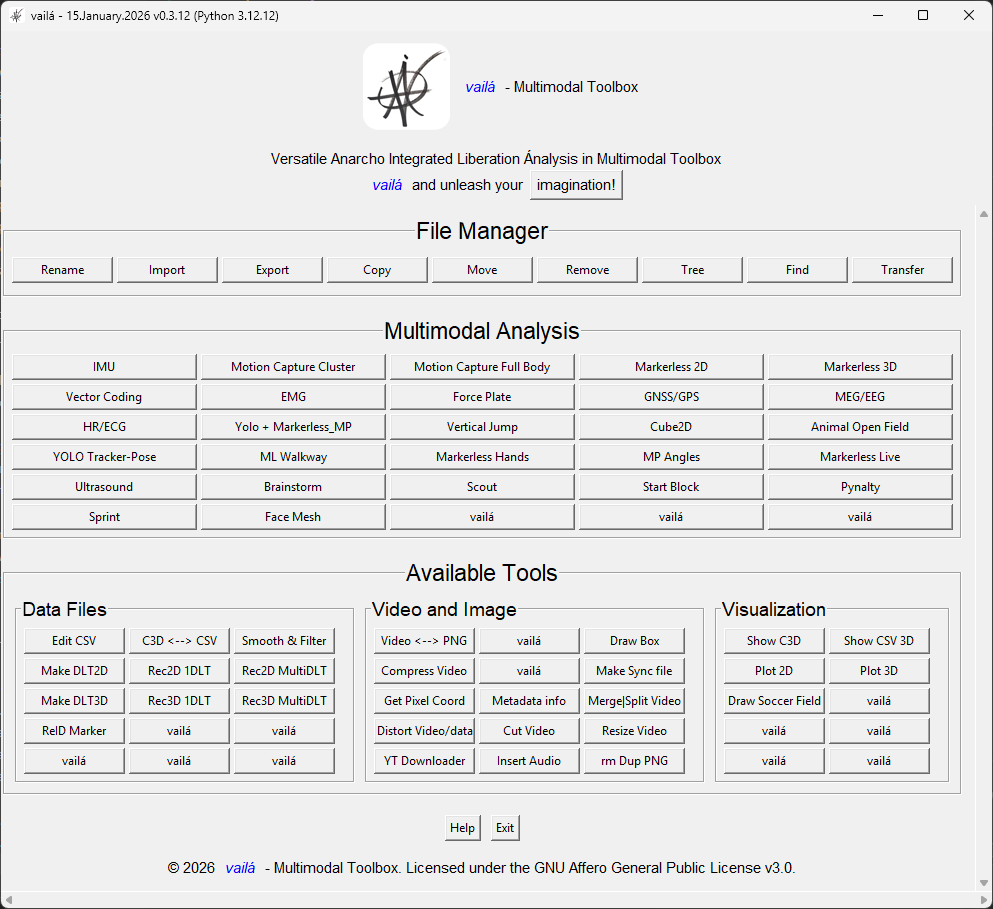
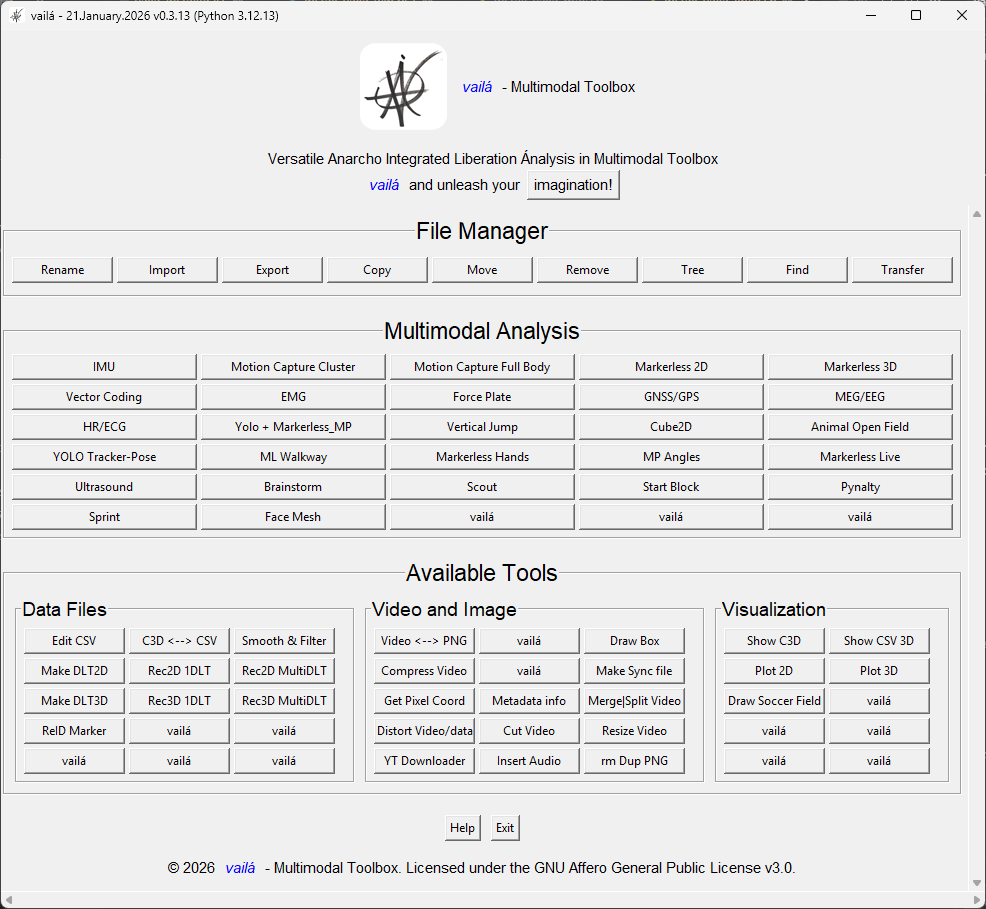
Unify install (#469)
* Fix macOS installation and code quality improvements

- Fix install_vaila_mac.sh: Add wrappers to avoid TensorRT resolution errors on macOS
  - Create .venv/bin/vaila wrapper for direct Python execution
  - Create .venv/bin/uv-run-vaila wrapper with --no-extra gpu flag
  - Update run_vaila.sh to use venv Python directly instead of uv run
  - Add installation instructions for macOS users

- Fix vaila.py: Replace try-except-pass with contextlib.suppress
  - Update WM_CLASS setting on Linux (lines 264-270)
  - Update grab_release/grab_set exception handling (lines 1858-1862)
  - Improve code quality and follow Python best practices

- Update version to 0.3.13 (Update Date: 20 January 2026)

- Ensure cross-platform compatibility: macOS uses MPS, Linux/Windows support TensorRT when available

* Fix installation scripts: uv sync error handling and environment verification

- Fix uv sync command in install_vaila_win.ps1 and install_vaila_linux.sh to handle empty EXTRAS variable
- Add error checking after uv sync to ensure dependencies are installed before continuing
- Add environment verification (PIL module check) before creating shortcuts/desktop entries
- Update version to 0.3.13 in vaila_installer.iss and pyproject.toml
- Ensure .venv is properly activated via uv run for both GPU and CPU installations
- Fixes issue where desktop shortcuts failed due to missing dependencies after installation

diff --git a/vaila.py b/vaila.py
@@ -6,8 +6,8 @@ Author: Paulo Roberto Pereira Santiago
 Email: paulosantiago@usp.br
 GitHub: https://github.com/vaila-multimodaltoolbox/vaila
 Creation Date: 07 October 2024
-Update Date: 15 January 2026
-Version: 0.3.12
+Update Date: 21 January 2026
+Version: 0.3.13
 
 Example of usage:
 uv run vaila.py (recommended)
@@ -56,6 +56,7 @@ Visit the project repository: https://github.com/vaila-multimodaltoolbox
 """
 
 # Standard library imports
+import contextlib
 import os
 import platform
 import signal
@@ -152,7 +153,7 @@ if platform.system() == "Darwin":  # macOS
         pass
 
 text = r"""
-vailá - 15.January.2026 v0.3.12 (Python 3.12.12)
+vailá - 21.January.2026 v0.3.13 (Python 3.12.13)
                                              o
                                 _,  o |\  _,/
                           |  |_/ |  | |/ / |
@@ -258,17 +259,15 @@ class Vaila(tk.Tk):
 
         """
         super().__init__()
-        self.title("vailá - 15.January.2026 v0.3.12 (Python 3.12.12)")
+        self.title("vailá - 21.January.2026 v0.3.13 (Python 3.12.13)")
 
         # Set WM_CLASS for Linux (needed for proper icon in taskbar/dock)
         if platform.system() == "Linux":
-            try:
-                # Set both class name and instance name to 'vaila' for proper desktop integration
-                # Use tk.call instead of wm_class method which may not exist in all Tkinter versions
+            # Set both class name and instance name to 'vaila' for proper desktop integration
+            # Use tk.call instead of wm_class method which may not exist in all Tkinter versions
+            # Silently ignore if WM_CLASS setting fails (not critical for functionality)
+            with contextlib.suppress(AttributeError, Exception):
                 self.tk.call('wm', 'class', self._w, 'vaila', 'vaila')
-            except (AttributeError, Exception) as e:
-                # Silently ignore if WM_CLASS setting fails (not critical for functionality)
-                pass
 
         # Adjust dimensions and layout based on the operating system
         self.set_dimensions_based_on_os()
@@ -1850,20 +1849,17 @@ class Vaila(tk.Tk):
         dialog.title("Select YOLO Version")
         dialog.geometry("400x500")
         dialog.transient(self)  # Make dialog modal
-        
+
         # Try to set grab, but don't fail if another grab is active
         try:
             dialog.grab_set()
         except tk.TclError:
             # Another grab is active, try to release it first
-            try:
+            with contextlib.suppress(Exception):
                 self.grab_release()
-            except Exception:
-                pass
-            try:
+            # Continue without grab if it still fails
+            with contextlib.suppress(Exception):
                 dialog.grab_set()
-            except Exception:
-                pass  # Continue without grab if it still fails
 
         tk.Label(dialog, text="Select YOLO tracker version to use:", pady=15).pack()
 
